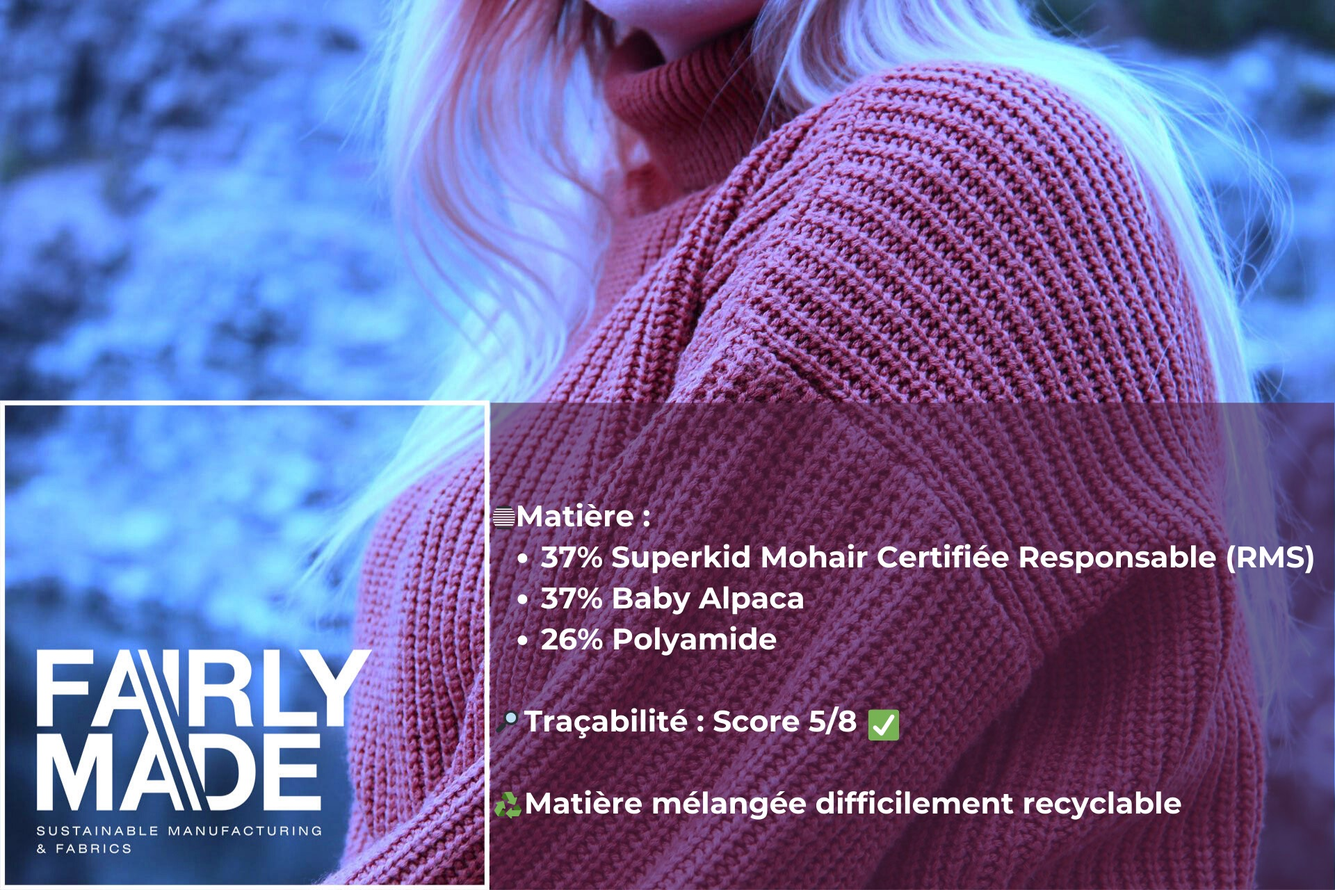
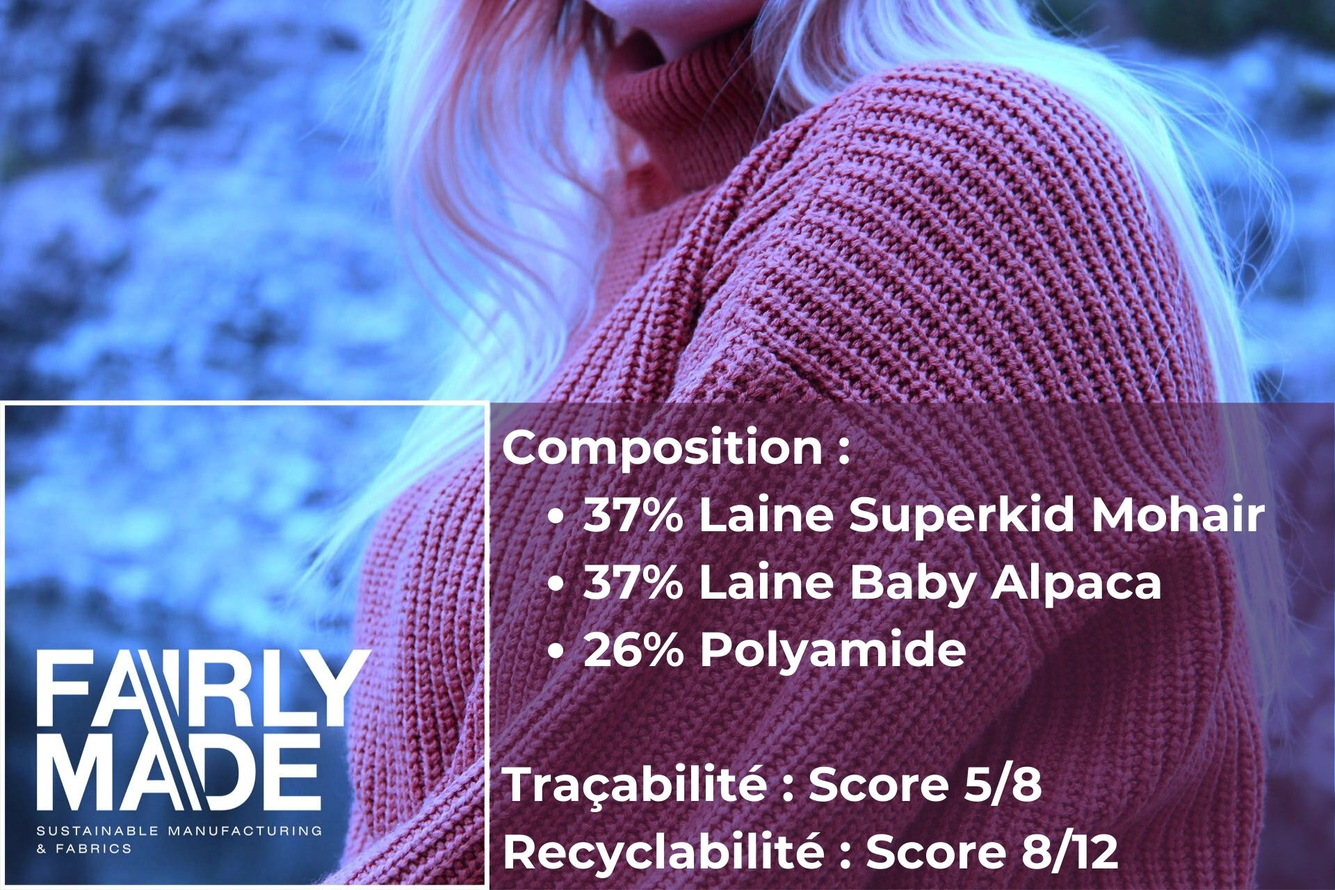
V2

Changed region(s): [[0.3438, 0.4688, 1.0, 0.75], [0.375, 0.7812, 0.875, 1.0]]

diff --git a/assets/css/main.scss b/assets/css/main.scss
@@ -5,7 +5,7 @@
 @charset "utf-8";
 
 $base-font-family: 'Work Sans', sans-serif;
-$base-font-size:   20px;
+$base-font-size:   15px;
 $base-font-weight: 400;
 $small-font-size:  $base-font-size * 0.875;
 $base-line-height: 1.7;

diff --git a/_posts/2016-09-16-all-text.md b/_posts/2016-09-16-all-text.md
@@ -7,12 +7,14 @@ date:   2016-09-16 23:34:56 +0530
 {: style="text-align:center"}
 ![Gilet]({{site.baseurl}}/assets/images/gilet.jpg){:height="100%" width="100%"}
 
-# MATIÈRE 
+# #1 MATIÈRE 
 
-Atticus said to Jem one day, “I’d rather you shot at tin cans in the backyard, but I know you’ll go after birds. Shoot all the blue jays you want, if you can hit ‘em, but remember it’s a sin to kill a mockingbird.” That was the only time I ever heard Atticus say it was a sin to do something, and I asked Miss Maudie about it. “Your father’s right,” she said. “Mockingbirds don’t do one thing except make music for us to enjoy. They don’t eat up people’s gardens, don’t nest in corn cribs, they don’t do one thing but sing their hearts out for us. That’s why it’s a sin to kill a mockingbird.
+![Matiere]({{site.baseurl}}/assets/images/matiere.jpg){:height="100%" width="100%"}
+
+“Mockingbirds don’t do one thing except make music for us to enjoy. They don’t eat up people’s gardens, don’t nest in corn cribs, they don’t do one thing but sing their hearts out for us. That’s why it’s a sin to kill a mockingbird.
 
 
-# TRAÇABILITÉ
+# #2 TRAÇABILITÉ
 
 <iframe width="100%" height="310" frameborder="0" scrolling="no" src="/ImpactProduit/assets/plotly/Globe.html"></iframe>
 
@@ -22,12 +24,16 @@ I took a deep breath and listened to the old brag of my heart. I am, I am, I am.
 
 We believe that we can change the things around us in accordance with our desires—we believe it because otherwise we can see no favourable outcome. We do not think of the outcome which generally comes to pass and is also favourable: we do not succeed in changing things in accordance with our desires, but gradually our desires change. The situation that we hoped to change because it was intolerable becomes unimportant to us. We have failed to surmount the obstacle, as we were absolutely determined to do, but life has taken us round it, led us beyond it, and then if we turn round to gaze into the distance of the past, we can barely see it, so imperceptible has it become.
 
-# IMPACT 
+# #3 IMPACT 
 
 The most beautiful things in the world cannot be seen or touched, they are felt with the heart.
 
-# RECYCLAGE
+# #4 RECYCLAGE ♻
 
-- Ce mélange de matières ne peut pas être séparé en fils distincts dans les filières de recyclage actuelles.
-- Déposé en centre de tri, il peut participer à l’élaboration de nouveaux matériaux (composites, isolation, rembourrage).
-- Le mieux reste de lui trouver un nouveau propriétaire pour une deuxième vie!
+Note de recyclabilité : **8/12**
+
+🧵Ce mélange de matières ne peut pas être séparé en fils distincts dans les filières de recyclage actuelles.
+
+🏭Déposé en centre de tri, il peut participer à l’élaboration de nouveaux matériaux (composites, isolation, rembourrage).
+
+✅Le mieux reste de lui trouver une nouvelle propriétaire pour une deuxième vie!
